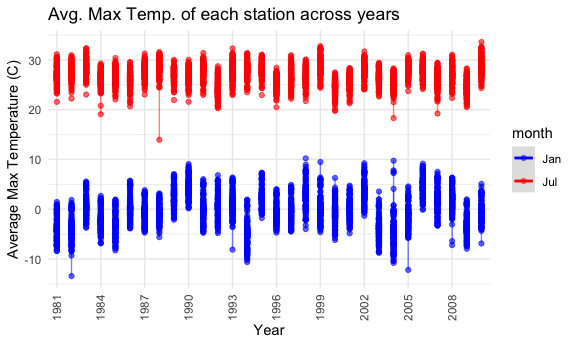
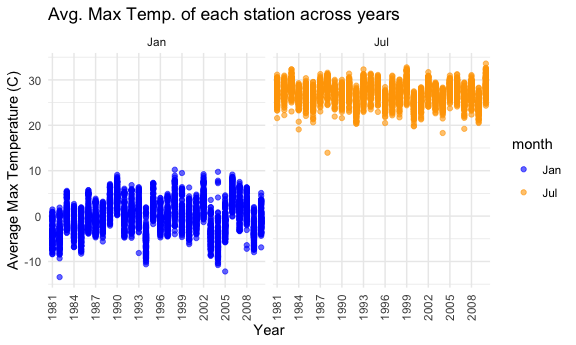
Cleaned up plots and explanations

diff --git a/Homework3_ac4635.md b/Homework3_ac4635.md
@@ -119,10 +119,10 @@ tidy_accel_df=
   read.csv("./data/accel_data.csv") %>%
   janitor::clean_names() %>%
   pivot_longer(
-          activity_1:activity_1440,
-          names_to = "activity_minute", 
-          names_prefix = "activity_",
-          values_to = "activity_count") %>% 
+        activity_1:activity_1440,
+        names_to = "activity_minute", 
+        names_prefix = "activity_",
+        values_to = "activity_count") %>% 
   mutate(
     Weekdays = 
       case_when(day %in% c("Saturday", "Sunday") ~ "weekend",
@@ -252,7 +252,8 @@ tidy_accel_df %>%
       name = "Day",
       discrete = TRUE)+ 
   theme_set(theme_minimal() + theme(legend.position = "bottom")) +   
-  theme(axis.text.x = element_text(angle=90, vjust=0.5, hjust=1)) 
+  theme(axis.text.x = element_text(angle=90, vjust=0.5, hjust=1),
+        plot.title = element_text(hjust = 0.5))
 ```
 
 <img src="Homework3_ac4635_files/figure-gfm/Activity_Per_Day_Plot-1.png" width="90%" />
@@ -265,9 +266,10 @@ We can conclude from this busy graphic that our patient had increased
 activity between 6:00pm and 10:00pm on Monday, Wednesday, Friday and
 Saturday suggesting he may go on exercise on socializing with friends on
 these evenings. The patient seems to have morning activites between
-6:00am and 9:00am from Wednesday, Thursday and Saturday. Additionally,
-the lowest acitvity times are between 11:00pm and 6:00am suggesting that
-the patient gets roughly 6-7 hours of sleep or downtime a week.
+6:00am and 9:00am from Wednesday, Thursday and Saturday. This patient
+seems to be active around midday on Sunday, 12pm. Additionally, the
+lowest acitvity times are between 11:00pm and 6:00am suggesting that the
+patient gets roughly 6-7 hours of sleep or downtime a week.
 
 ## Problem 3
 
@@ -303,6 +305,15 @@ ny_noaa %>%
     ##  9 US1NYAB0025   215
     ## 10 US1NYAL0002   549
     ## # … with 737 more rows
+
+``` r
+count(distinct(ny_noaa, id))
+```
+
+    ## # A tibble: 1 x 1
+    ##       n
+    ##   <int>
+    ## 1   747
 
 ``` r
 # Date Range 
@@ -341,7 +352,7 @@ tail(date_summary, 5)
 
 ``` r
 # Percentage of NA's by column
-colMeans(is.na(ny_noaa))  
+colMeans(is.na(ny_noaa))
 ```
 
     ##        id      date      prcp      snow      snwd      tmax      tmin 
@@ -360,17 +371,19 @@ respectively.
 
 Below is a brief description of the original variables:
 
-id: Weather station ID date: Date of observation prcp: Precipitation
-(tenths of mm) snow: Snowfall (mm) snwd: Snow depth (mm) tmax: Maximum
-temperature (tenths of degrees C) tmin: Minimum temperature (tenths of
-degrees C)
+`id`: Weather station ID `date`: Date of observation `prcp`:
+Precipitation (tenths of mm) `snow`: Snowfall (mm) `snwd`: Snow depth
+(mm) `tmax`: Maximum temperature (tenths of degrees C) `tmin`: Minimum
+temperature (tenths of degrees C)
 
 There are 747 unique weather stations that may provide information on
 precipitation, snowfall, snow depth, min and max temperature on any
 given day from 1981-01-01 to 2010-21-31. Unfortunately, we have a lot of
 missing data. In particular, we found that the `tmin` and `tmax` columns
 have 43.71% of its observations as NA and 22.80% of the observations for
-the `snwd` variable as NA.
+the `snwd` variable as NA. ID and date have no missing observations.
+Precipitation and snowfall have 5.62% and 14.90 of its observations as
+NA, respectively.
 
 ## Problem 3 Part B
 
@@ -382,13 +395,13 @@ units. For snowfall, what are the most commonly observed values? Why?
 #Clean Dataset and Units
 noaa_data = ny_noaa %>% 
   janitor::clean_names() %>% 
-    separate(date, into = c("year", "month", "day"), sep = "-") %>% 
+    separate(date, into = c("year", "month", "day")) %>% 
   mutate(
     prcp = prcp/10,
     snow = as.numeric(snow),
     snwd = as.numeric(snwd),
     tmax = as.numeric(tmax)/10,
-    tmin = as.numeric(tmin)/10)
+    tmin = as.numeric(tmin)/10) 
 
 # Commonly observed Snowfall values
 noaa_data %>% 
@@ -439,16 +452,15 @@ Avg_Max_Plot= noaa_data %>%
   select(id, year, month, avg_tmax) %>%
   ggplot(aes(x = year, y = avg_tmax, color = month)) + 
   geom_point(alpha = 0.6) +
-  geom_line(alpha = 0.5) +
-  geom_smooth(alpha = 0.3)+
   labs(
         title = "Avg. Max Temp. of each station across years",
         x = "Year",
         y = "Average Max Temperature (C)") +          
-  scale_color_manual(values=c("blue", "red")) +
+  scale_color_manual(values=c("blue", "orange")) +
   theme(axis.text.x = element_text(angle=90, vjust=0.5, hjust=1),
         legend.position = "right") +
-  scale_x_discrete(breaks = seq(1981, 2010, 3))
+  scale_x_discrete(breaks = seq(1981, 2010, 3)) +
+  facet_grid(. ~ month)
 ```
 
     ## `summarise()` regrouping output by 'id', 'month' (override with `.groups` argument)
@@ -457,13 +469,7 @@ Avg_Max_Plot= noaa_data %>%
 Avg_Max_Plot
 ```
 
-    ## `geom_smooth()` using method = 'loess' and formula 'y ~ x'
-
-    ## Warning: Removed 5970 rows containing non-finite values (stat_smooth).
-
     ## Warning: Removed 5970 rows containing missing values (geom_point).
-
-    ## Warning: Removed 1492 row(s) containing missing values (geom_path).
 
 <img src="Homework3_ac4635_files/figure-gfm/Two_Panel_Plot-1.png" width="90%" />
 
@@ -471,9 +477,10 @@ Overall, the average maximum temperature in July is warmer than the
 average maximum temperature in January across the 30 years. In January,
 the average maximum temperature fluctuates between -10 to 10 degrees
 Celsius, while the average maximum temperature in July fluctuates
-between +20 and +30 degress Celsius.
+between +20 and +30 degress Celsius. The fluctuation between the January
+temperatures is much greater than the July temperatures.
 
-We observat that the recorded temperatures from the different stations
+We observe that the recorded temperatures from the different stations
 can vary as seen with the outliers. For example, one station in July,
 1988 recorded a much lower temperature than other stations.
 Additionally, we see outliers in January 1982, 2004, and 2005. One
@@ -520,13 +527,14 @@ tmin_tmax_plot
 snowfall_plot = 
   noaa_data %>% 
   filter(0 < snow & snow < 100) %>% 
-  ggplot(aes(x = snow, color = factor(year))) +
-  geom_density() +
+  ggplot(aes(x = year, y = snow, fill = year)) +
+  geom_boxplot() +
   labs(
     title = "Distribution of NY Snowfall Values (1981-2010)",
-    x = "Snowfall (mm)",
-    y = "Year") +
+    x = "Year",
+    y = "Snowfall (mm)") +
   theme(
+    axis.text.x = element_text(angle=90, vjust=0.5, hjust=1),
     plot.title = element_text(hjust = 0.5),
     legend.position = "none")
 
@@ -546,7 +554,9 @@ entire dataset. While we observe some outliers around -60 and 60 degrees
 Celsius, most of the points lie between -30 and 30 Celsius on the
 x-axis.
 
-On the right panel, we observe a distribution of snowfall values between
-0 and 100 degrees Celsius. We observe the two highest peaks from the
-snowfall plot under 25mm every year. There is no substantial difference
-of snowfall values across the years.
+On the right panel, we observe a boxplot of snowfall values between
+0-100mm by year from 1981-2010. Over the 30 years, we observe that the
+distribution between the snowfall values from year to year does not vary
+significantly other than the 1998 and 2006 year. There are sone outliers
+that we can see after 1998, but generally there is little variation of
+snowfall values across the years.
